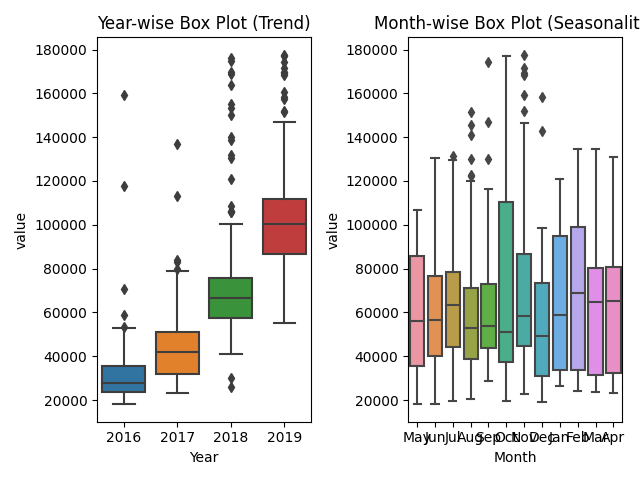
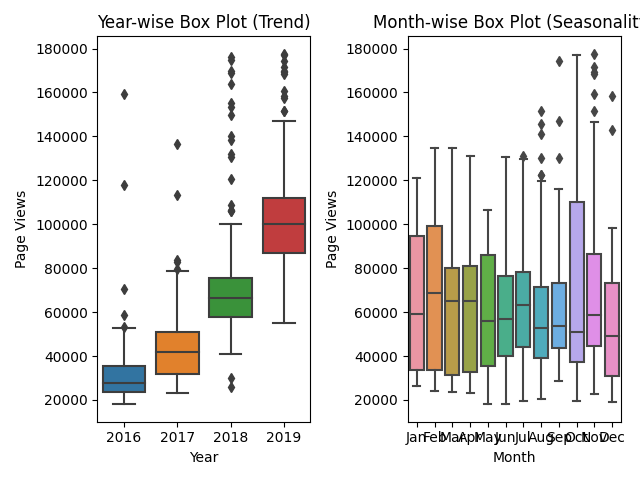
2 1/2 down

diff --git a/test_module.py b/test_module.py
@@ -2,65 +2,80 @@ import unittest
 import time_series_visualizer
 import matplotlib as mpl
 
+
 class DataCleaningTestCase(unittest.TestCase):
     def test_data_cleaning(self):
         actual = int(time_series_visualizer.df.count(numeric_only=True))
         expected = 1238
-        self.assertEqual(actual, expected, "Expected DataFrame count after cleaning to be 1238.")
+        self.assertEqual(actual, expected,
+                         "Expected DataFrame count after cleaning to be 1238.")
+
 
 class LinePlotTestCase(unittest.TestCase):
     def setUp(self):
         self.fig = time_series_visualizer.draw_line_plot()
         self.ax = self.fig.axes[0]
+        print(self.ax)
 
     def test_line_plot_title(self):
         actual = self.ax.get_title()
         expected = "Daily freeCodeCamp Forum Page Views 5/2016-12/2019"
-        self.assertEqual(actual, expected, "Expected line plot title to be 'Daily freeCodeCamp Forum Page Views 5/2016-12/2019'")
-    
+        self.assertEqual(
+            actual, expected, "Expected line plot title to be 'Daily freeCodeCamp Forum Page Views 5/2016-12/2019'")
+
     def test_line_plot_labels(self):
         actual = self.ax.get_xlabel()
         expected = "Date"
-        self.assertEqual(actual, expected, "Expected line plot xlabel to be 'Date'")
+        self.assertEqual(actual, expected,
+                         "Expected line plot xlabel to be 'Date'")
         actual = self.ax.get_ylabel()
         expected = "Page Views"
-        self.assertEqual(actual, expected, "Expected line plot ylabel to be 'Page Views'")
+        self.assertEqual(actual, expected,
+                         "Expected line plot ylabel to be 'Page Views'")
 
     def test_line_plot_data_quantity(self):
         actual = len(self.ax.lines[0].get_ydata())
         expected = 1238
-        self.assertEqual(actual, expected, "Expected number of data points in line plot to be 1238.")
+        self.assertEqual(
+            actual, expected, "Expected number of data points in line plot to be 1238.")
 
 
 class BarPlotTestCase(unittest.TestCase):
     def setUp(self):
         self.fig = time_series_visualizer.draw_bar_plot()
-        self.ax = self.fig.axes[0]
+        self.ax = self.fig.axes[0][0]
 
     def test_bar_plot_legend_labels(self):
         actual = []
         for label in self.ax.get_legend().get_texts():
-          actual.append(label.get_text())
-        expected = ['January', 'February', 'March', 'April', 'May', 'June', 'July', 'August', 'September', 'October', 'November', 'December']
-        self.assertEqual(actual, expected, "Expected bar plot legend labels to be months of the year.")
-    
+            actual.append(label.get_text())
+        expected = ['January', 'February', 'March', 'April', 'May', 'June',
+                    'July', 'August', 'September', 'October', 'November', 'December']
+        self.assertEqual(
+            actual, expected, "Expected bar plot legend labels to be months of the year.")
+
     def test_bar_plot_labels(self):
         actual = self.ax.get_xlabel()
         expected = "Years"
-        self.assertEqual(actual, expected, "Expected bar plot xlabel to be 'Years'")
+        self.assertEqual(actual, expected,
+                         "Expected bar plot xlabel to be 'Years'")
         actual = self.ax.get_ylabel()
         expected = "Average Page Views"
-        self.assertEqual(actual, expected, "Expected bar plot ylabel to be 'Average Page Views'")
+        self.assertEqual(actual, expected,
+                         "Expected bar plot ylabel to be 'Average Page Views'")
         actual = []
         for label in self.ax.get_xaxis().get_majorticklabels():
             actual.append(label.get_text())
         expected = ['2016', '2017', '2018', '2019']
-        self.assertEqual(actual, expected, "Expected bar plot secondary labels to be '2016', '2017', '2018', '2019'")
+        self.assertEqual(
+            actual, expected, "Expected bar plot secondary labels to be '2016', '2017', '2018', '2019'")
 
     def test_bar_plot_number_of_bars(self):
-        actual = len([rect for rect in self.ax.get_children() if isinstance(rect, mpl.patches.Rectangle)])
+        actual = len([rect for rect in self.ax.get_children()
+                     if isinstance(rect, mpl.patches.Rectangle)])
         expected = 49
-        self.assertEqual(actual, expected, "Expected a different number of bars in bar chart.")
+        self.assertEqual(actual, expected,
+                         "Expected a different number of bars in bar chart.")
 
 
 class BoxPlotTestCase(unittest.TestCase):
@@ -73,51 +88,63 @@ class BoxPlotTestCase(unittest.TestCase):
         actual = len(self.fig.get_axes())
         expected = 2
         self.assertEqual(actual, expected, "Expected two box plots in figure.")
-    
+
     def test_box_plot_labels(self):
         actual = self.ax1.get_xlabel()
         expected = "Year"
-        self.assertEqual(actual, expected, "Expected box plot 1 xlabel to be 'Year'")
+        self.assertEqual(actual, expected,
+                         "Expected box plot 1 xlabel to be 'Year'")
         actual = self.ax1.get_ylabel()
         expected = "Page Views"
-        self.assertEqual(actual, expected, "Expected box plot 1 ylabel to be 'Page Views'")
+        self.assertEqual(actual, expected,
+                         "Expected box plot 1 ylabel to be 'Page Views'")
         actual = self.ax2.get_xlabel()
         expected = "Month"
-        self.assertEqual(actual, expected, "Expected box plot 1 xlabel to be 'Month'")
+        self.assertEqual(actual, expected,
+                         "Expected box plot 1 xlabel to be 'Month'")
         actual = self.ax2.get_ylabel()
         expected = "Page Views"
-        self.assertEqual(actual, expected, "Expected box plot 1 ylabel to be 'Page Views'")
+        self.assertEqual(actual, expected,
+                         "Expected box plot 1 ylabel to be 'Page Views'")
         actual = []
         for label in self.ax1.get_xaxis().get_majorticklabels():
             actual.append(label.get_text())
         expected = ['2016', '2017', '2018', '2019']
-        self.assertEqual(actual, expected, "Expected box plot 1 secondary labels to be '2016', '2017', '2018', '2019'")
+        self.assertEqual(
+            actual, expected, "Expected box plot 1 secondary labels to be '2016', '2017', '2018', '2019'")
         actual = []
         for label in self.ax2.get_xaxis().get_majorticklabels():
             actual.append(label.get_text())
-        expected = ['Jan', 'Feb', 'Mar', 'Apr', 'May', 'Jun', 'Jul', 'Aug', 'Sep', 'Oct', 'Nov', 'Dec']
-        self.assertEqual(actual, expected, "Expected box plot 2 secondary labels to be 'Jan', 'Feb', 'Mar', 'Apr', 'May', 'Jun', 'Jul', 'Aug', 'Sep', 'Oct', 'Nov', 'Dec'")
+        expected = ['Jan', 'Feb', 'Mar', 'Apr', 'May',
+                    'Jun', 'Jul', 'Aug', 'Sep', 'Oct', 'Nov', 'Dec']
+        self.assertEqual(
+            actual, expected, "Expected box plot 2 secondary labels to be 'Jan', 'Feb', 'Mar', 'Apr', 'May', 'Jun', 'Jul', 'Aug', 'Sep', 'Oct', 'Nov', 'Dec'")
         actual = []
         for label in self.ax1.get_yaxis().get_majorticklabels():
             actual.append(label.get_text())
-        expected = ['0', '20000', '40000', '60000', '80000', '100000', '120000', '140000', '160000', '180000', '200000']
-        self.assertEqual(actual, expected, "Expected box plot 1 secondary labels to be '0', '20000', '40000', '60000', '80000', '100000', '120000', '140000', '160000', '180000', '200000'")
+        expected = ['0', '20000', '40000', '60000', '80000',
+                    '100000', '120000', '140000', '160000', '180000', '200000']
+        self.assertEqual(
+            actual, expected, "Expected box plot 1 secondary labels to be '0', '20000', '40000', '60000', '80000', '100000', '120000', '140000', '160000', '180000', '200000'")
 
     def test_box_plot_titles(self):
         actual = self.ax1.get_title()
         expected = "Year-wise Box Plot (Trend)"
-        self.assertEqual(actual, expected, "Expected box plot 1 title to be 'Year-wise Box Plot (Trend)'")
+        self.assertEqual(
+            actual, expected, "Expected box plot 1 title to be 'Year-wise Box Plot (Trend)'")
         actual = self.ax2.get_title()
         expected = "Month-wise Box Plot (Seasonality)"
-        self.assertEqual(actual, expected, "Expected box plot 1 title to be 'Month-wise Box Plot (Seasonality)'")
+        self.assertEqual(
+            actual, expected, "Expected box plot 1 title to be 'Month-wise Box Plot (Seasonality)'")
 
     def test_box_plot_number_of_boxes(self):
-        actual = len(self.ax1.lines) / 6 # Every box has 6 lines
+        actual = len(self.ax1.lines) / 6  # Every box has 6 lines
         expected = 4
         self.assertEqual(actual, expected, "Expected four boxes in box plot 1")
-        actual = len(self.ax2.lines) / 6 # Every box has 6 lines
+        actual = len(self.ax2.lines) / 6  # Every box has 6 lines
         expected = 12
         self.assertEqual(actual, expected, "Expected 12 boxes in box plot 2")
+
 
 if __name__ == "__main__":
     unittest.main()

diff --git a/time_series_visualizer.py b/time_series_visualizer.py
@@ -45,7 +45,6 @@ def draw_bar_plot():
 
     fig = figure
     # plt.show()
-
     # Save image and return fig (don't change this part)
     fig.savefig('bar_plot.png')
     return fig
@@ -57,21 +56,28 @@ def draw_box_plot():
     df_box['Date'] = pd.to_datetime(df_box['date'], format='%Y-%m-%d')
     df_box.reset_index(inplace=True)
     df_box['Year'] = [d.year for d in df_box.Date]
+    df_box['month'] = [d.month for d in df_box.Date]
+    # df_box['Month'] = df_box.sort_values("Month")
     df_box['Month'] = [d.strftime('%b') for d in df_box.Date]
     # Draw box plots (using Seaborn)
-
+    df_box = df_box.sort_values("month")
     # figure = sns.catplot(y="value", data=df_box, kind="box", row="year")
     fig, axs = plt.subplots(1, 2)
     # sns.regplot(x='year', y='value', data=df_box, ax=axs[0])
     # sns.regplot(x='month', y='value', data=df_box, ax=axs[1])
     sns.boxplot(x='Year', y='value', data=df_box, ax=axs[0])
     axs[0].set_title("Year-wise Box Plot (Trend)")
+    axs[0].set(ylabel='Page Views')
     sns.boxplot(x='Month', y='value', data=df_box, ax=axs[1])
     axs[1].set_title("Month-wise Box Plot (Seasonality)")
+    axs[1].set(ylabel='Page Views')
     fig.tight_layout()
+    actual = []
+    for label in fig.axes[1].get_xaxis().get_majorticklabels():
+        actual.append(label.get_text())
 
     plt.show()
-    print(df_box.head())
+    print(actual)
     # Save image and return fig (don't change this part)
     fig.savefig('box_plot.png')
     return fig

diff --git a/main.py b/main.py
@@ -4,7 +4,7 @@ from unittest import main
 
 # Test your function by calling it here
 # time_series_visualizer.draw_line_plot()
-# time_series_visualizer.draw_bar_plot()
+time_series_visualizer.draw_bar_plot()
 # time_series_visualizer.draw_box_plot()
 
 # Run unit tests automatically
